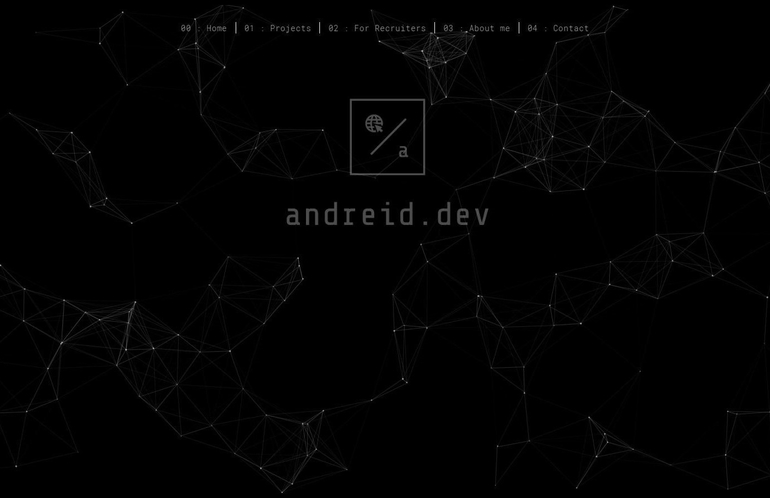
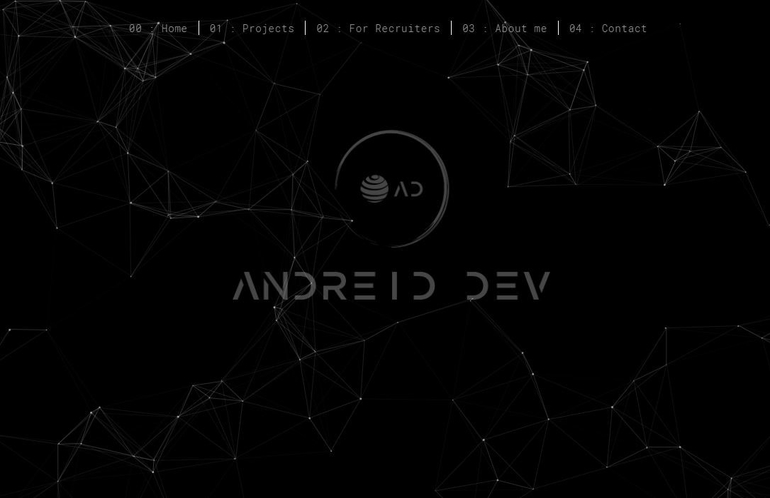
update

diff --git a/webserver/static/style.css b/webserver/static/style.css
@@ -30,9 +30,9 @@ canvas {
   background-color: #000000;
   background-image: url("/static/assets/images/logo_transparent.png");
   background-repeat: no-repeat;
-  background-size: 15%;
+  background-size: 25%;
   background-transparent: 80%;
-  background-position: 50% 30%;
+  background-position: 50% 42%;
 }
 
 .count-particles {
